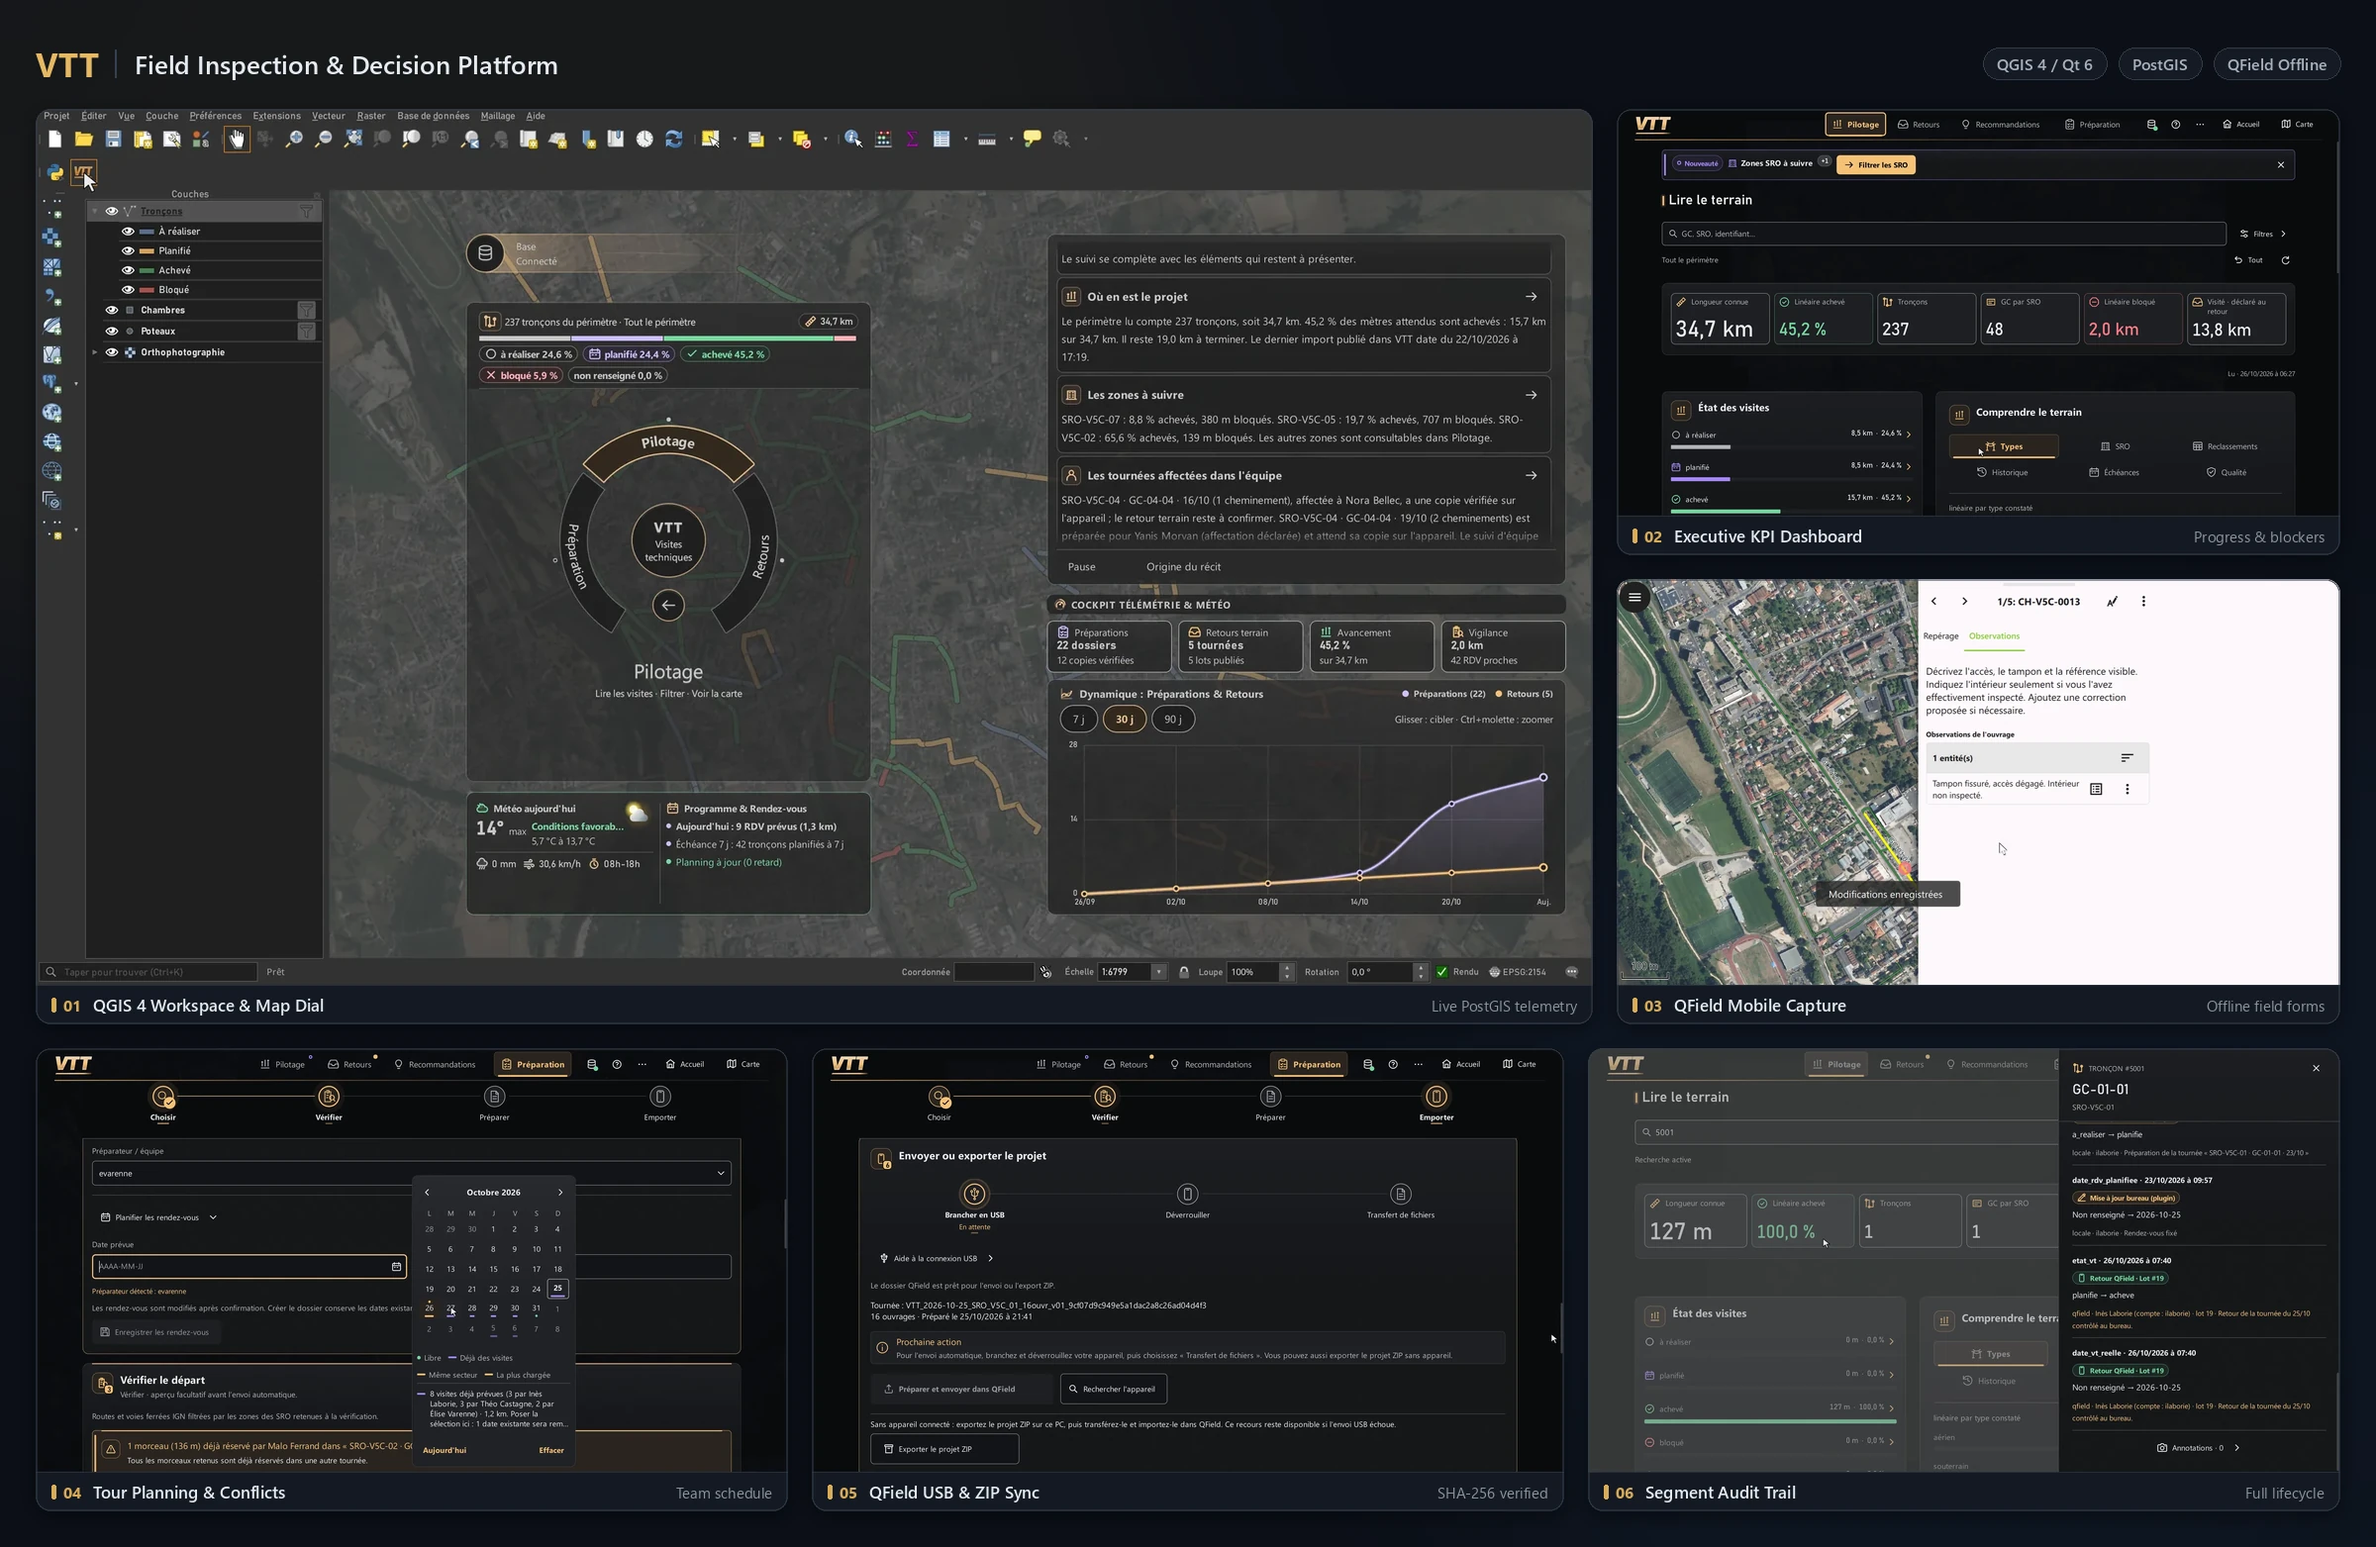
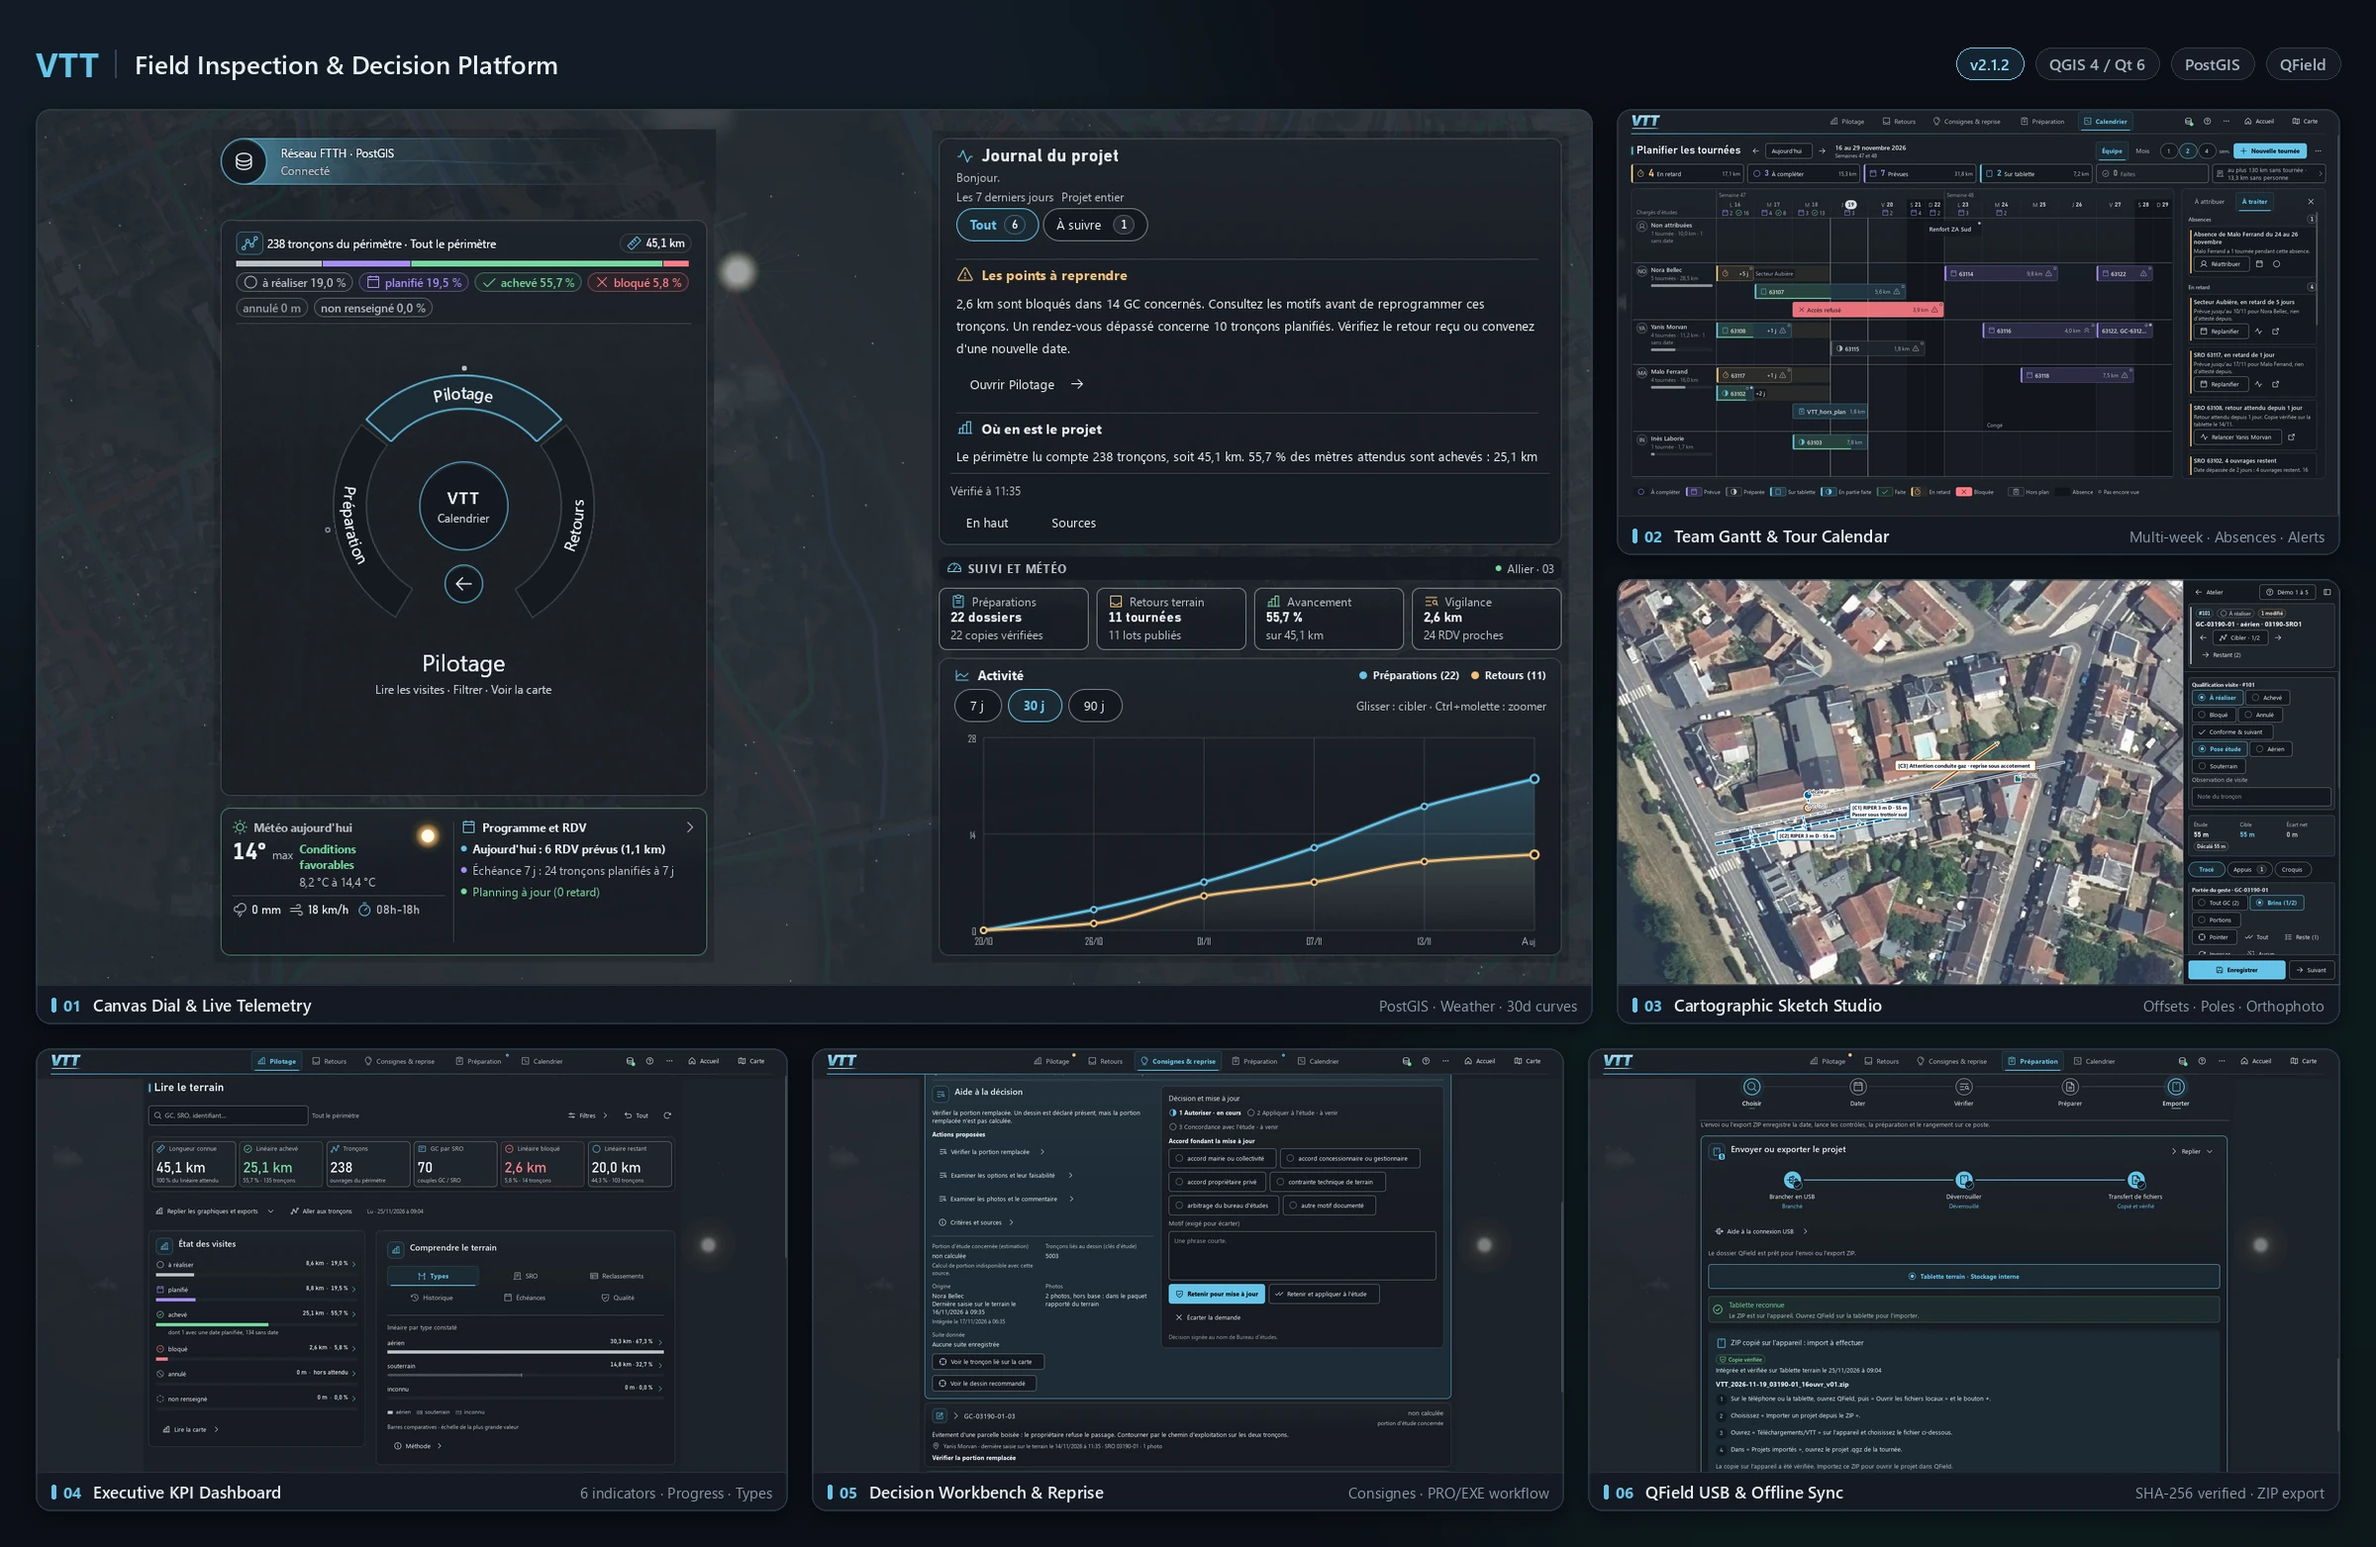
Update VTT showcase montage to v2.1.2 with realistic data

diff --git a/README.md b/README.md
@@ -4,7 +4,7 @@ Geospatial Strategy Consultant ([GEODECI](https://geodeci.xyz/)).
 
 ## VTT
 
-Field technical inspection and decision platform built on QGIS 4 / Qt 6, PostGIS, and offline QField: live map dial, KPI dashboards, tour planning with conflict detection, SHA-256 USB/ZIP sync, and transactional field returns. ([Overview](https://geodeci.xyz/plugins/vtt))
+Field technical inspection and decision platform built on QGIS 4 / Qt 6, PostGIS, and offline QField (v2.1.2): live map dial, KPI dashboards, multi-week team Gantt calendar, cartographic sketch studio, decision workbench with PRO/EXE reprise, and SHA-256 USB/ZIP sync. ([Overview](https://geodeci.xyz/plugins/vtt))
 
 <a href="https://geodeci.xyz/plugins/vtt">
   <img src="assets/vtt-showcase.webp" alt="VTT - Field Inspection and Decision Platform showcase" width="100%" />
